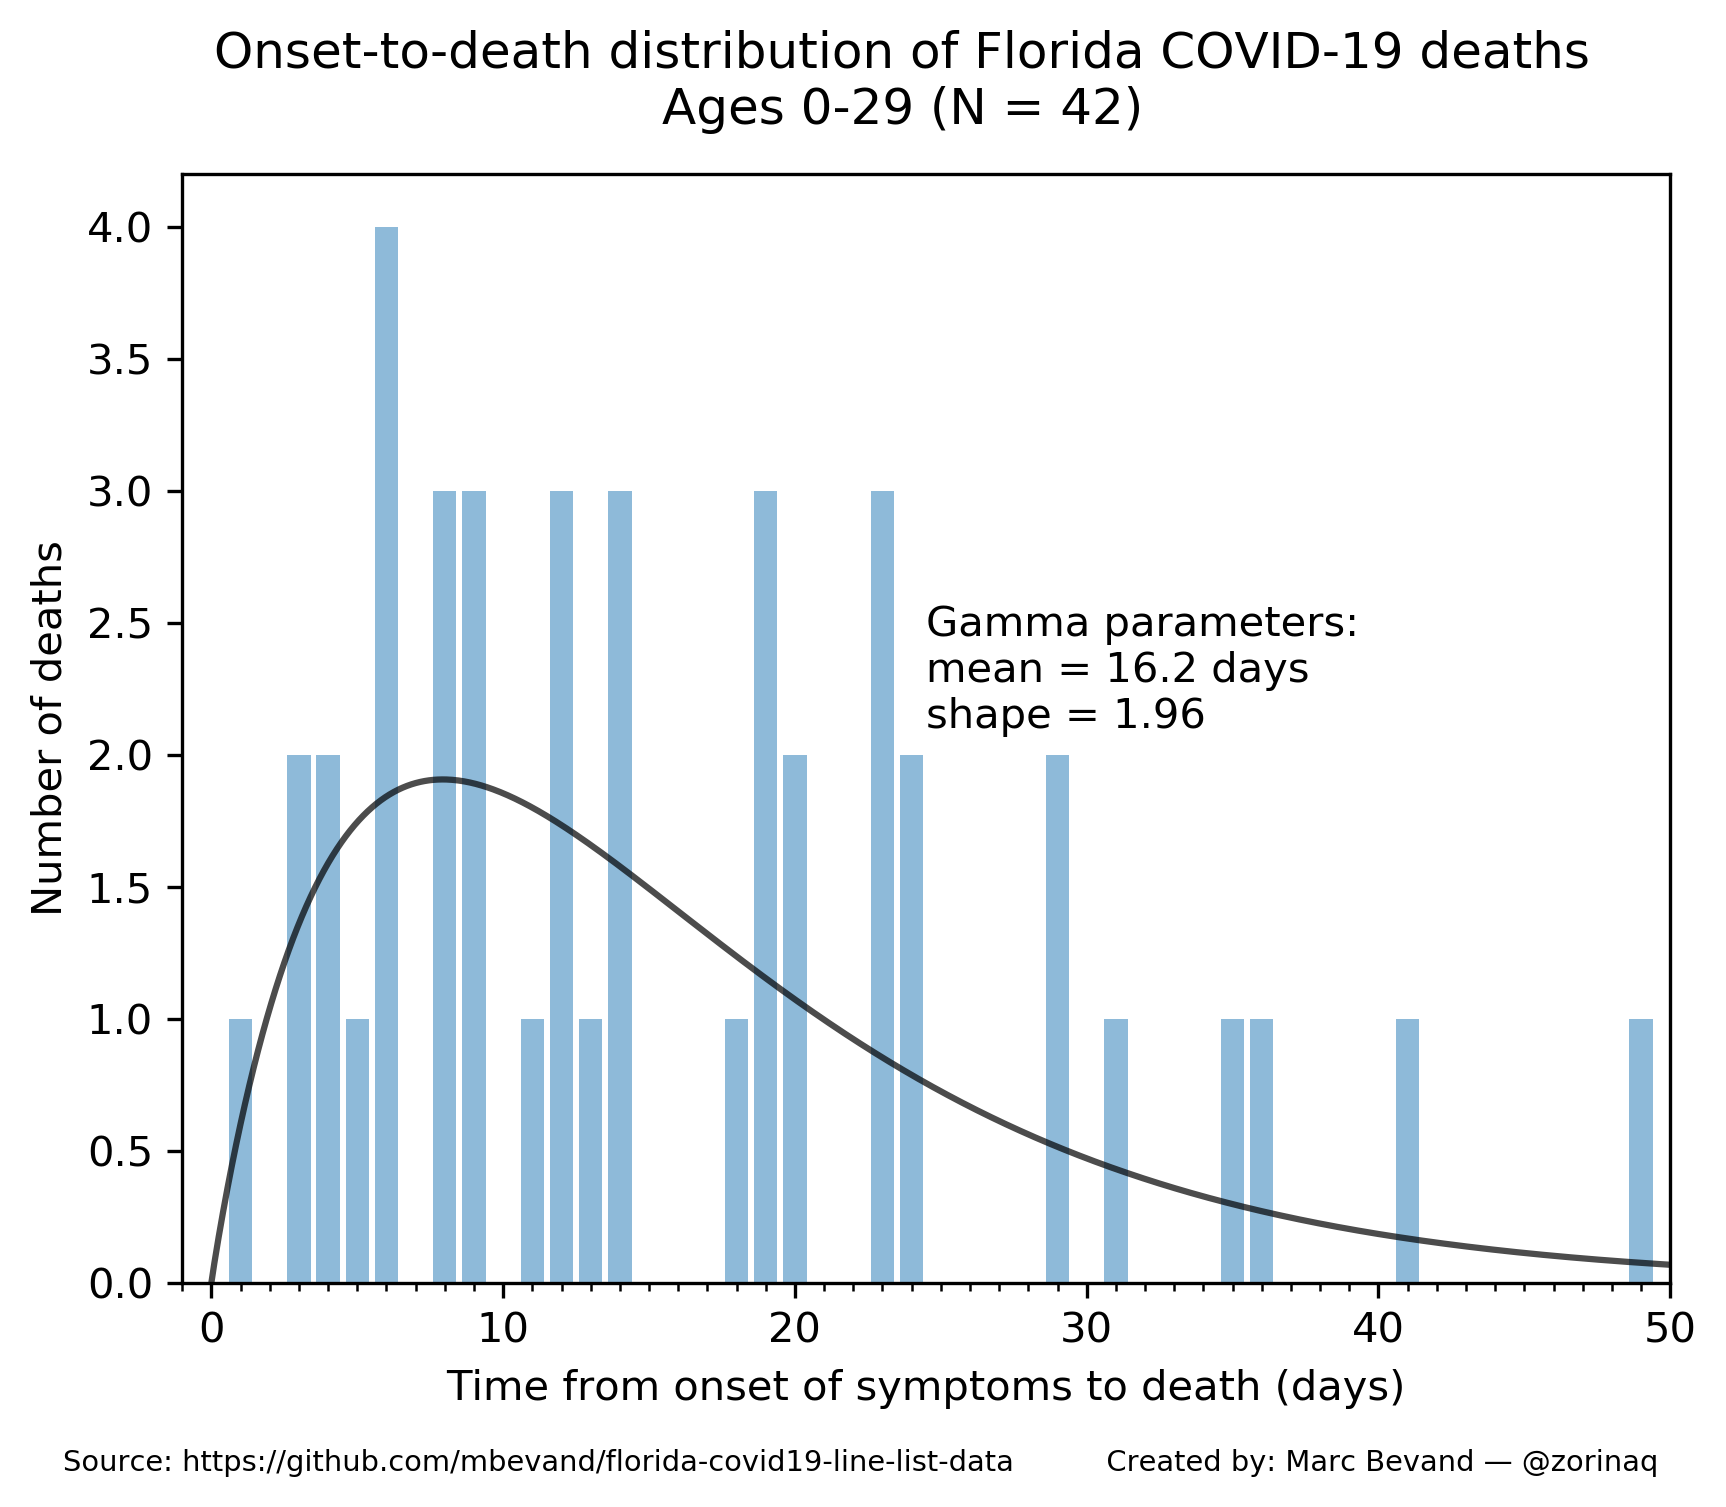
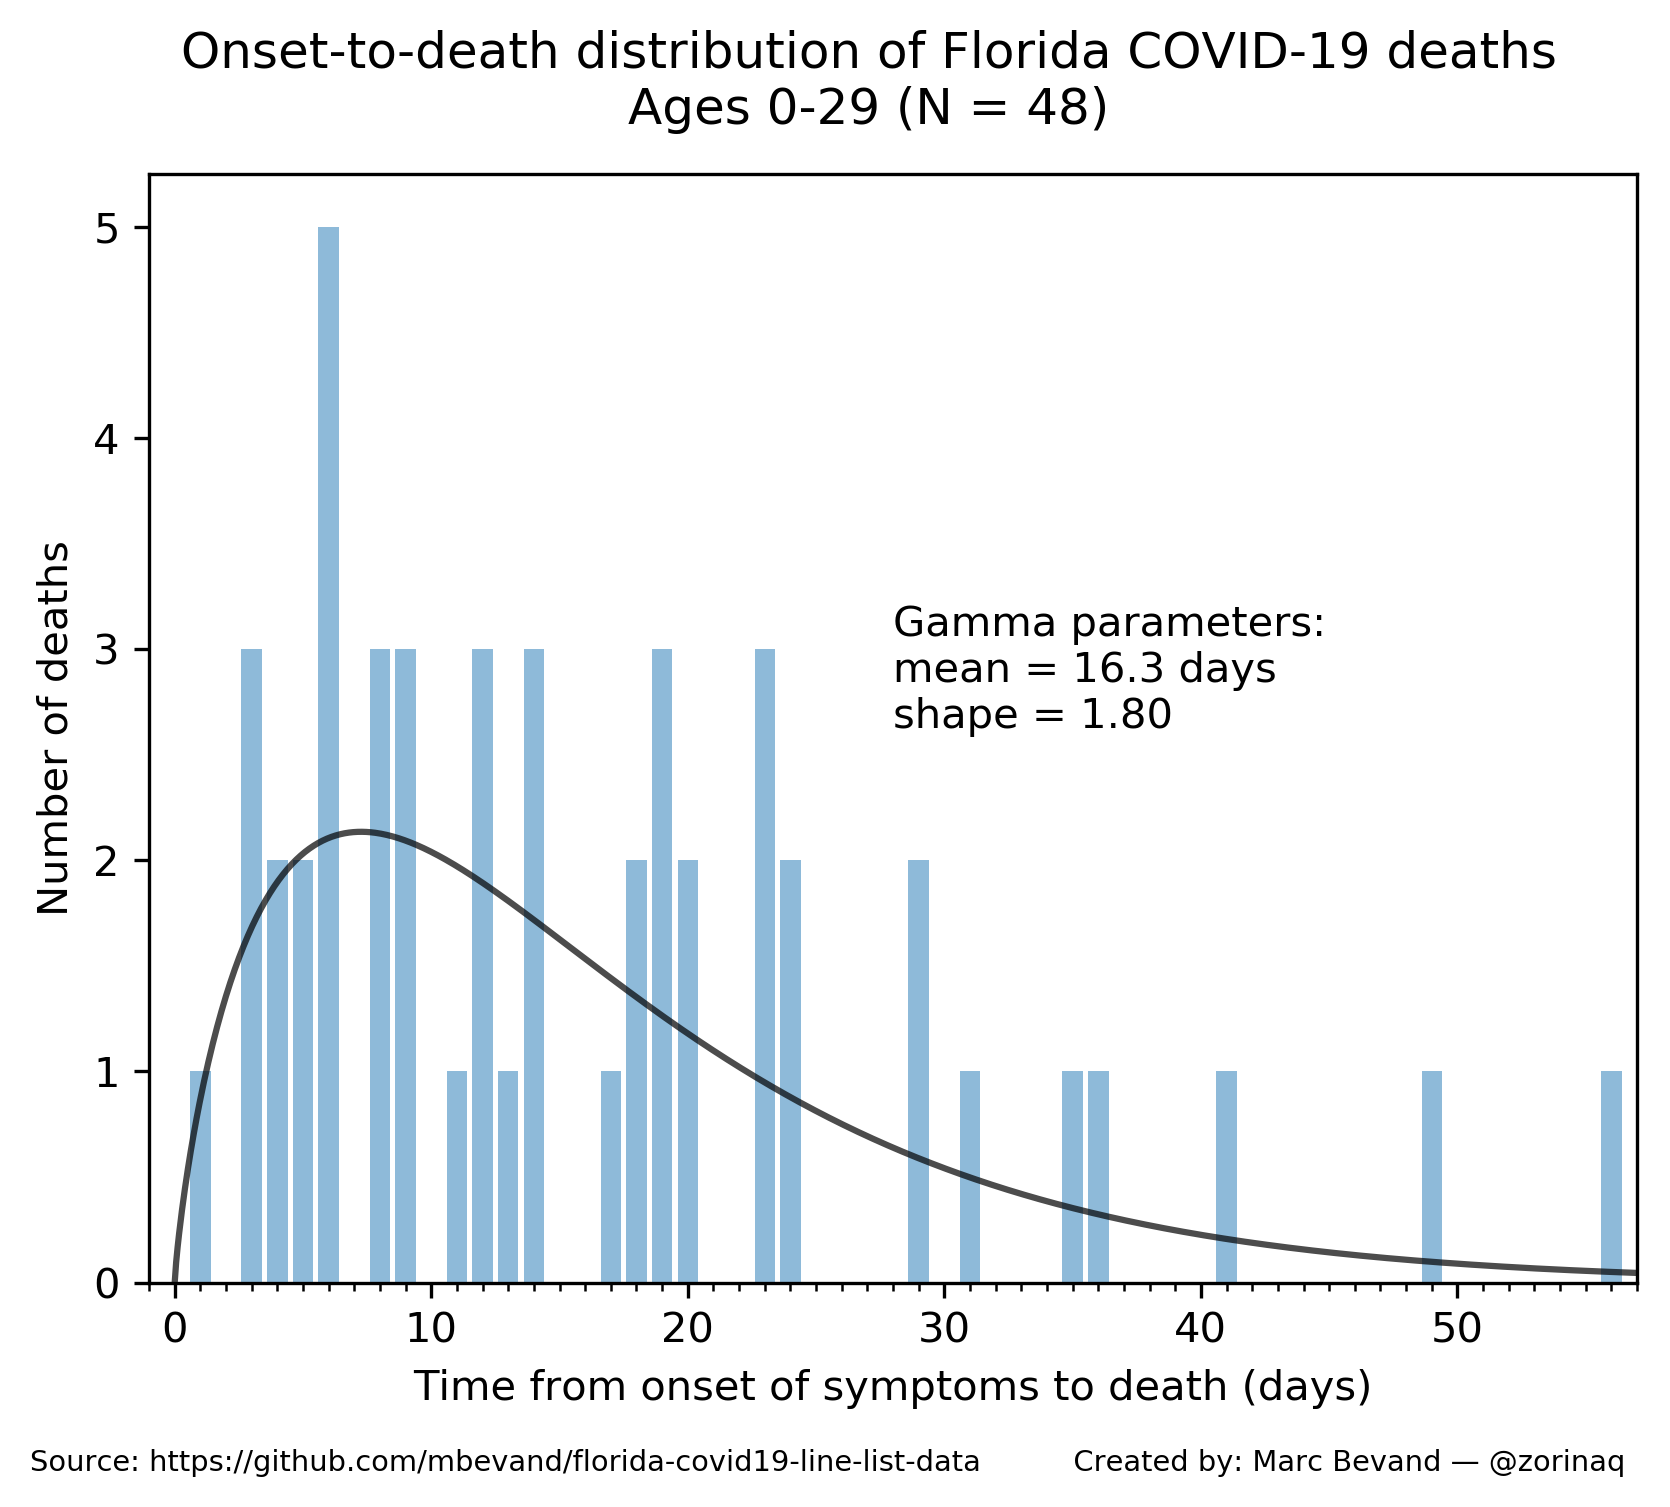
new gamma distribution

diff --git a/age_stratified_cfr.py b/age_stratified_cfr.py
@@ -218,7 +218,7 @@ def main():
         data[date][b].deaths += 1 if died else 0
         data[date][b].cases += 1
     # Parameters of the Gamma distribution of onset-to-death, calculated by gamma.py
-    mean, shape = 21.3, 2.11
+    mean, shape = 22.2, 2.09
     calc_cfr(data, mean, shape)
     #print_stats(data)
     gen_chart(data, mean, shape)

diff --git a/forecast_deaths.py b/forecast_deaths.py
@@ -24,7 +24,7 @@ csv_deaths_occurred = 'data_deaths/deaths_by_date_of_death.csv'
 deaths_occurred_ignore_days = 10
 
 # Mean time (in days) from onset of symptoms to death, calculated by gamma.py
-o2d = 21.3
+o2d = 22.2
 
 # Number of days to calculate the simple moving average of the chart curves
 avg_days = 7

diff --git a/README.md b/README.md
@@ -101,13 +101,13 @@ important that we feed it CFR estimates, not IFR estimates. Infection Fatality
 Ratios take into account *undetected* cases and thus would not be consistent
 with line list data.
 
-Then the script assumes death occurs on average 21.3 days after infection,
+Then the script assumes death occurs on average 22.2 days after infection,
 which is the mean onset-to-death time calculated by `gamma.py`.
 
 Finally, it charts the forecast (`forecast_deaths.png`). The curves are all
 smoothed with a 7-day simple moving average.
 
-The end result is a simple tool that can not only predict deaths up to ~21.3
+The end result is a simple tool that can not only predict deaths up to ~22.2
 days ahead of time, but can also estimate *past* deaths accurately: notice how
 the colored curves in the generated chart follow closely the observed deaths.
 
@@ -249,70 +249,75 @@ Parsing data_fdoh/2020-08-13-09-40-37.csv
 Parsing data_fdoh/2020-08-14-13-14-28.csv
 Parsing data_fdoh/2020-08-15-08-01-33.csv
 Parsing data_fdoh/2020-08-16-07-41-33.csv
+Parsing data_fdoh/2020-08-17-15-00-53.csv
+Parsing data_fdoh/2020-08-18-07-42-14.csv
+Parsing data_fdoh/2020-08-19-08-02-46.csv
+Parsing data_fdoh/2020-08-20-07-53-41.csv
+Parsing data_fdoh/2020-08-21-08-06-24.csv
 
 Ages 0-29:
-Number of deaths: 42
+Number of deaths: 48
 Gamma distribution params:
-mean = 16.2
-shape = 1.96
+mean = 16.3
+shape = 1.80
 
 Ages 30-39:
-Number of deaths: 86
+Number of deaths: 95
 Gamma distribution params:
-mean = 19.6
-shape = 1.57
+mean = 19.9
+shape = 1.54
 
 Ages 40-49:
-Number of deaths: 201
+Number of deaths: 225
 Gamma distribution params:
-mean = 24.3
-shape = 2.14
+mean = 24.8
+shape = 2.07
 
 Ages 50-59:
-Number of deaths: 496
+Number of deaths: 547
 Gamma distribution params:
-mean = 24.9
-shape = 2.03
+mean = 25.1
+shape = 2.06
 
 Ages 60-69:
-Number of deaths: 1063
+Number of deaths: 1205
 Gamma distribution params:
-mean = 22.5
-shape = 2.28
+mean = 23.6
+shape = 2.29
 
 Ages 70-79:
-Number of deaths: 1722
+Number of deaths: 1938
 Gamma distribution params:
-mean = 21.6
-shape = 2.26
+mean = 22.7
+shape = 2.23
 
 Ages 80-89:
-Number of deaths: 1937
+Number of deaths: 2190
 Gamma distribution params:
-mean = 20.7
-shape = 2.10
+mean = 21.7
+shape = 2.05
 
 Ages 90+:
-Number of deaths: 1063
+Number of deaths: 1174
 Gamma distribution params:
-mean = 18.6
-shape = 2.03
+mean = 19.4
+shape = 1.99
 
 All ages:
-Number of deaths: 6610
+Number of deaths: 7422
 Gamma distribution params:
-mean = 21.3
-shape = 2.11
+mean = 22.2
+shape = 2.09
 ```
 
-The overall (all ages) mean of 21.3 days is comparable to other published estimates, however our
-distribution is wider (ie. smaller shape parameter of 2.11) because many deaths
+The overall (all ages) mean of 22.2 days is comparable to other published estimates, however our
+distribution is wider (ie. smaller shape parameter of 2.09) because many deaths
 occur in the long tail:
 * mean 17.8 days, shape 4.94 = 0.45<sup>-2</sup>, based on sample of 24 deaths: [Estimates of the severity of coronavirus disease 2019: a model-based analysis][verity]
 * mean 15.1 days, shape 5.1, based on sample of 3 deaths: [Estimating case fatality ratio of COVID-19 from observed cases outside China][althaus]
 
 We believe our distribution parameters are more accurate because
-they are based on a much larger sample of 6610 deaths. The long tail
+they are based on a much larger sample of 7422 deaths. The long tail
 may be the result of improved treatments that can maintain patients
 alive for a longer time.
 
